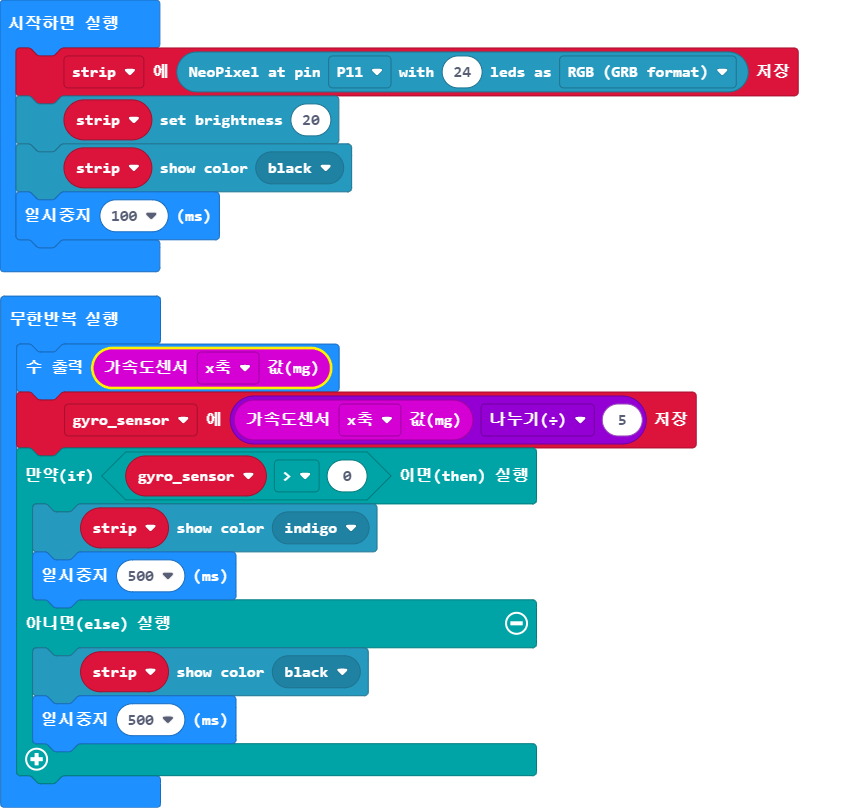
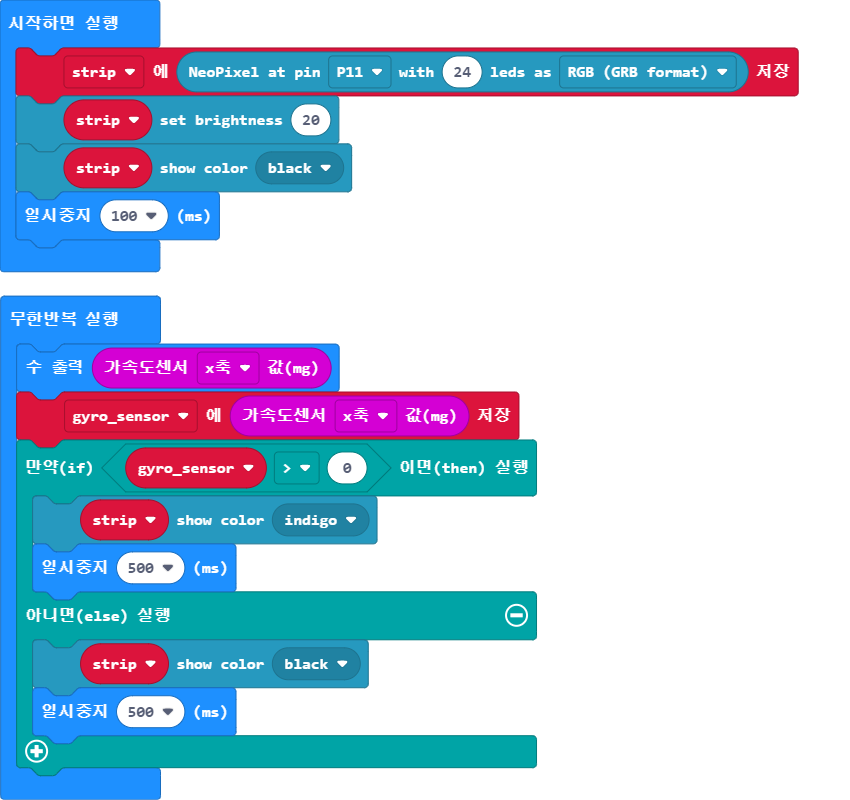
Update main.blocks, main.ts

Changed region(s): [[0.0, 0.0312, 0.9482, 0.9688], [0.2141, 0.875, 0.2753, 0.9062], [0.0306, 0.0, 0.0612, 0.0312]]

diff --git a/main.ts b/main.ts
@@ -5,7 +5,7 @@ strip.showColor(neopixel.colors(NeoPixelColors.Black))
 basic.pause(100)
 basic.forever(function () {
     basic.showNumber(input.acceleration(Dimension.X))
-    gyro_sensor = input.acceleration(Dimension.X) / 5
+    gyro_sensor = input.acceleration(Dimension.X)
     if (gyro_sensor > 0) {
         strip.showColor(neopixel.colors(NeoPixelColors.Indigo))
         basic.pause(500)
